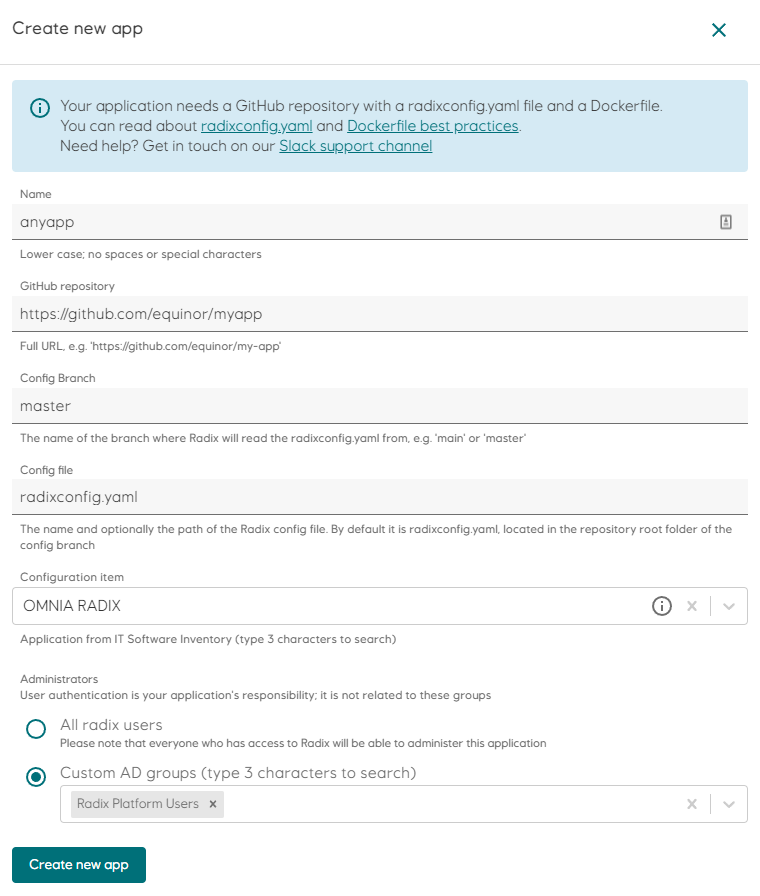
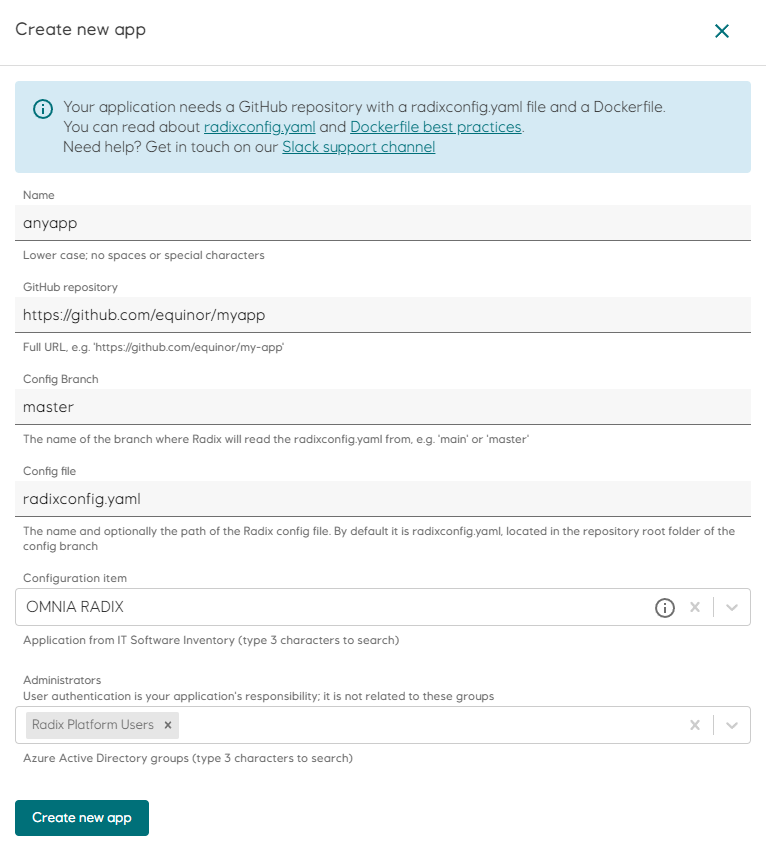
update docs

Changed region(s): [[0.0, 0.0303, 0.9987, 1.0], [0.8474, 0.6667, 0.9382, 0.7273], [0.9382, 0.2424, 0.9684, 0.2727]]

diff --git a/public-site/docs/src/docs/topic-security/index.md b/public-site/docs/src/docs/topic-security/index.md
@@ -13,8 +13,6 @@ Membership in the 'Radix Platform User' AD group grants access to
 
 Only members of the AD group provided during application registration, will be able to see the application listed in the Radix web console. Same AD group also controls who will be able to change the configuration of the application in the Radix web console.
 
-If no AD group is provided during the registration the application will be available to all Radix users (members of the 'Radix Platform Users' AD group).
-
 ## Authentication
 
 It is important to understand that **application authentication is not handled by Radix**. The application endpoints will be public. Each team managing an application hosted on Radix is responsible for authenticating their users.
